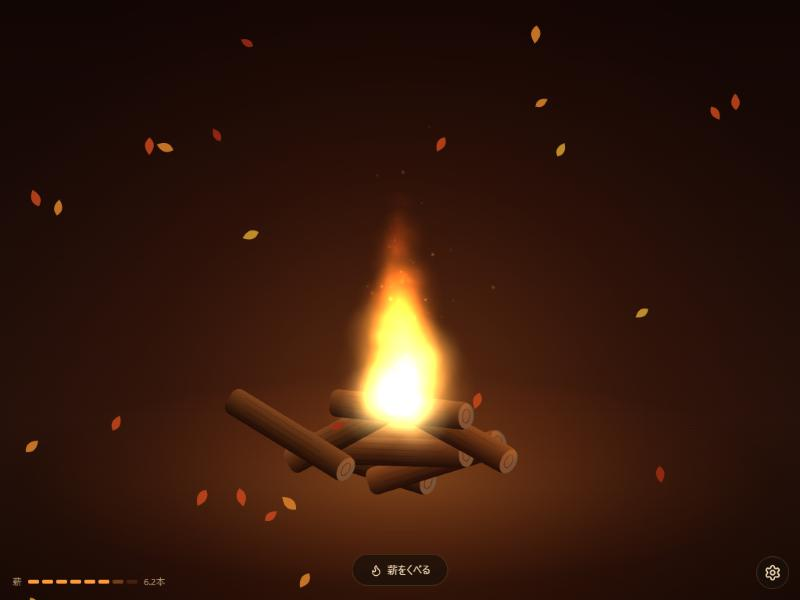
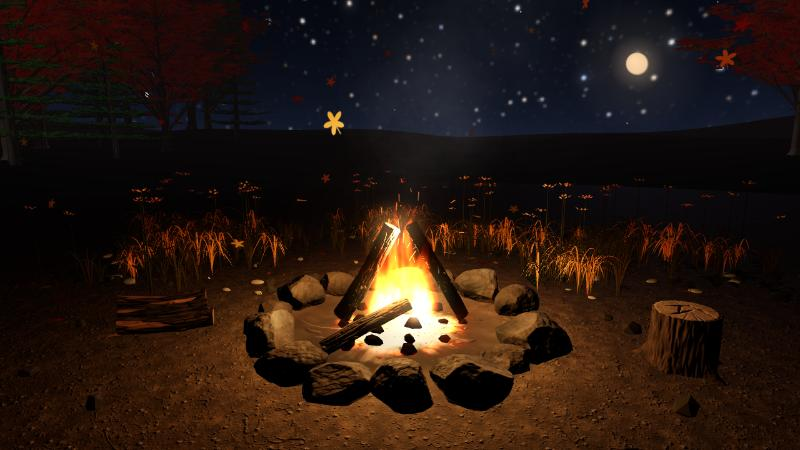
READMEのスクリーンショットを3D表示に差し替え

diff --git a/README.md b/README.md
@@ -4,7 +4,7 @@
 
 **使ってみる → https://tsaru23.github.io/takibi/**
 
-![秋の焚火。紅葉が舞っている](docs/screenshot.jpg)
+![秋の森の焚火。もみじに囲まれ、正面に月と星空が見える](docs/screenshot.jpg)
 
 ## 動画の焚火と違うところ
 
